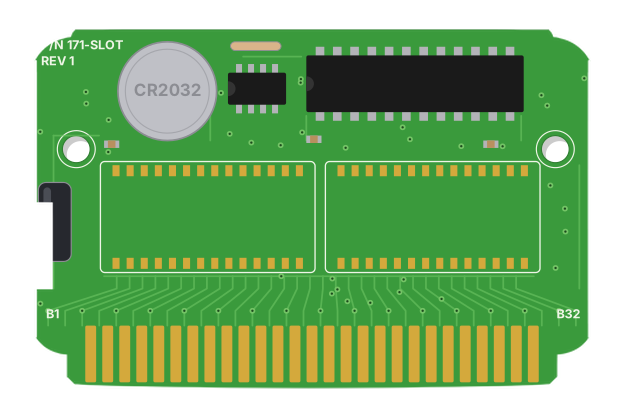
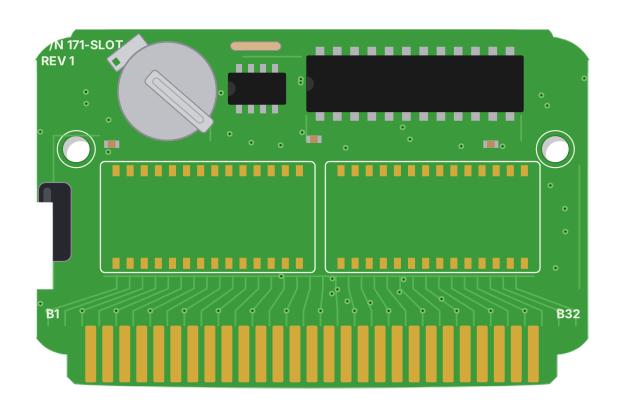
Batteries only on carts that save on one; home carts' cell drawn like the GB's
- GB/GBC read the cartridge type (0x147), GBA looks for its SRAM or real-time clock library once per cart; the library scan reads old entries once more to learn it.
- Without a battery the GB pak and GBA boards show the two bare BAT pads, in the opened and clear views.
- NES, Famicom, Super Nintendo and Mega Drive cells: silver, strap across on the diagonal, solder tab, no yellow ring.
- Cached cart faces are rebuilt.

Changed region(s): [[0.2131, 0.1866, 0.3654, 0.311], [0.1522, 0.0622, 0.2436, 0.1866]]

diff --git a/android/app/src/main/java/fyi/slot/konkr/RomLibrary.kt b/android/app/src/main/java/fyi/slot/konkr/RomLibrary.kt
@@ -161,8 +161,10 @@ internal object RomLibrary {
                         old.optLong("modified", -1), title, size, modified) &&
                         // Old indexes lack the GB header metadata used by
                         // Cart Studio. Read only 0x150 bytes once to migrate.
-                        (old.optString("platform") == "GBA" || old.has("gb_cgb_flag") ||
-                            old.has("home_maker"))
+                        // Older ones also lack whether a GB/GBA cart has a
+                        // battery (2026-11): read once more to learn it.
+                        (old.has("home_battery") && (old.optString("platform") == "GBA" ||
+                            old.has("gb_cgb_flag") || old.has("home_maker")))
                     // ZIP archives remain a single shelf cartridge identified
                     // by the ZIP's SAF URI and filename. Resolve the embedded
                     // ROM header/extension only on cache misses.
@@ -216,6 +218,12 @@ internal object RomLibrary {
                         // A .bin is a Mega Drive cart only with a SEGA header.
                         if (!Systems.acceptsHeader(embeddedExtension, header)) continue
                         if (home) homeHeader = Systems.homeHeader(embeddedExtension, header, name)
+                        else if (!gba) homeHeader = Systems.HomeHeader("", "", Systems.gbBattery(header))
+                        else homeHeader = Systems.HomeHeader("", "", try {
+                            resolver.openInputStream(fileUri)?.use { input ->
+                                RomSource.useRom(input, name) { rom, _ -> Systems.gbaBattery(rom) }
+                            } ?: false
+                        } catch (_: Exception) { false })
                         // Use the exact Nintendo GB header fields read by
                         // Cart Studio's automatic shell selector. Never infer
                         // colours from the ROM filename or download artwork.
@@ -262,7 +270,12 @@ internal object RomLibrary {
                             .put("home_region", homeHeader.region)
                             .put("home_battery", homeHeader.battery)
                             .put("home_maker", homeHeader.maker)
-                    } else if (!gba) {
+                    } else {
+                        // GB/GBC/GBA: the board shows a battery only for a
+                        // cart that keeps its save on one.
+                        game.put("home_battery", homeHeader.battery)
+                    }
+                    if (!home && !gba) {
                         game.put("gb_title", gbTitle)
                             .put("gb_code", gbCode)
                             .put("gb_japan", gbJapan)

diff --git a/android/app/src/main/java/fyi/slot/konkr/Systems.kt b/android/app/src/main/java/fyi/slot/konkr/Systems.kt
@@ -108,6 +108,50 @@ internal object Systems {
         val title: String, val region: String, val battery: Boolean, val maker: String = ""
     )
 
+    /** A Game Boy / Game Boy Color cart keeps its save on a battery when
+     *  its cartridge type (header 0x147) says RAM+BATTERY (MBC1/2/3/5/7,
+     *  MMM01, HuC1/HuC3, TAMA5, Pocket Camera). */
+    fun gbBattery(header: ByteArray): Boolean {
+        if (header.size <= 0x147) return false
+        return (header[0x147].toInt() and 0xff) in setOf(
+            0x03, 0x06, 0x09, 0x0d, 0x0f, 0x10, 0x13, 0x1b, 0x1e, 0x22, 0xfc, 0xfd, 0xfe, 0xff)
+    }
+
+    /** A Game Boy Advance cart has a battery when it saves to SRAM, or keeps
+     *  a real-time clock (Pokémon Ruby, Sapphire, Emerald...): the save
+     *  library and clock driver leave their names in the ROM. Flash and
+     *  EEPROM carts need none. Reads the whole cart once, from a stream. */
+    fun gbaBattery(input: java.io.InputStream): Boolean {
+        val marks = listOf("SRAM_V", "SRAM_F_V", "SIIRTC_V").map { it.toByteArray(Charsets.US_ASCII) }
+        val keep = marks.maxOf { it.size } - 1
+        val buffer = ByteArray(256 * 1024 + keep)
+        var carried = 0
+        var total = 0L
+        while (true) {
+            if (Thread.currentThread().isInterrupted) return false
+            val n = input.read(buffer, carried, buffer.size - carried)
+            if (n <= 0) break
+            total += n
+            if (total > 64L * 1024 * 1024) return false
+            val end = carried + n
+            for (mark in marks) {
+                var i = 0
+                val last = end - mark.size
+                while (i <= last) {
+                    if (buffer[i] == mark[0]) {
+                        var k = 1
+                        while (k < mark.size && buffer[i + k] == mark[k]) k++
+                        if (k == mark.size) return true
+                    }
+                    i++
+                }
+            }
+            carried = minOf(keep, end)
+            System.arraycopy(buffer, end - carried, buffer, 0, carried)
+        }
+        return false
+    }
+
     fun homeHeader(ext: String, header: ByteArray, filename: String): HomeHeader {
         val fromName = regionFromName(filename)
         return when (platformFor(ext)) {

diff --git a/crates/slot-ui/src/board.rs b/crates/slot-ui/src/board.rs
@@ -17,6 +17,10 @@ const BOARD_SVG: &str = include_str!("../assets/board.svg");
 // The Game Boy pak board and its back shells, drawn in board.svg's style by
 // tools/pak-board/gen.py from the layout of assets/gb_board.png.
 const GB_BOARD_SVG: &str = include_str!("../assets/gb_board.svg");
+// The same boards for a cart that keeps no save on a battery: the cell is
+// gone, its two pads stay bare (Siham 2026-11-02, as the home carts).
+const GB_BOARD_BARE_SVG: &str = include_str!("../assets/gb_board_bare.svg");
+const BOARD_BARE_SVG: &str = include_str!("../assets/board_bare.svg");
 const GB_SHELL_SVG: &str = include_str!("../assets/gb_shell.svg");
 const GBC_SHELL_SVG: &str = include_str!("../assets/gbc_shell.svg");
 const GB_CHIP_SVG: &str = include_str!("../assets/gb_chip.svg");
@@ -115,7 +119,8 @@ pub fn board_face(cart: &Cart) -> CartFace {
         over(&mut face, &pak_board_face(cart), 0, 0);
         return face;
     }
-    let mut face = svg_face(&shaded(BOARD_SVG, shell_for(cart).colour), BOARD_W, BOARD_H);
+    let board = if cart.battery { BOARD_SVG } else { BOARD_BARE_SVG };
+    let mut face = svg_face(&shaded(board, shell_for(cart).colour), BOARD_W, BOARD_H);
     over(&mut face, &rom_marking_face(&cart.stem), ROM_X, ROM_Y);
     face
 }
@@ -226,7 +231,8 @@ pub fn home_chip_face(platform: Platform, core: Option<Core>) -> CartFace {
 /// The pak board with both big-chip footprints empty. Like a GBA board, the
 /// footprints keep the cores' names and the title is printed on a chip.
 fn pak_board_face(cart: &Cart) -> CartFace {
-    let mut face = svg_face(GB_BOARD_SVG, GB_CART_W, GB_CART_H);
+    let board = if cart.battery { GB_BOARD_SVG } else { GB_BOARD_BARE_SVG };
+    let mut face = svg_face(board, GB_CART_W, GB_CART_H);
     for (core, u) in [Core::Mgba, Core::alternate_for(cart.platform)].into_iter().zip(PAK_FOOTPRINTS) {
         over(&mut face, &pak_footprint_face(core), pak_chip_x(u), pak_chip_y());
     }

diff --git a/crates/slot-android/src/cart_disk_cache.rs b/crates/slot-android/src/cart_disk_cache.rs
@@ -25,7 +25,7 @@ impl DiskCache {
     pub fn key(&self, cart: &Cart) -> String {
         // Rust Cart debug covers URI, platform, name, code, label and shell.
         // The revision invalidates old faces when rendering algorithms change.
-        let mut input = format!("KONKR-cart-r102-v6-home:{cart:?}").into_bytes();
+        let mut input = format!("KONKR-cart-r102-v7-batteries:{cart:?}").into_bytes();
         input.extend_from_slice(&self.theme);
         for path in [Some(cart.rom.as_path()), cart.label.as_deref()].into_iter().flatten() {
             if let Ok(metadata)=fs::metadata(path) {
